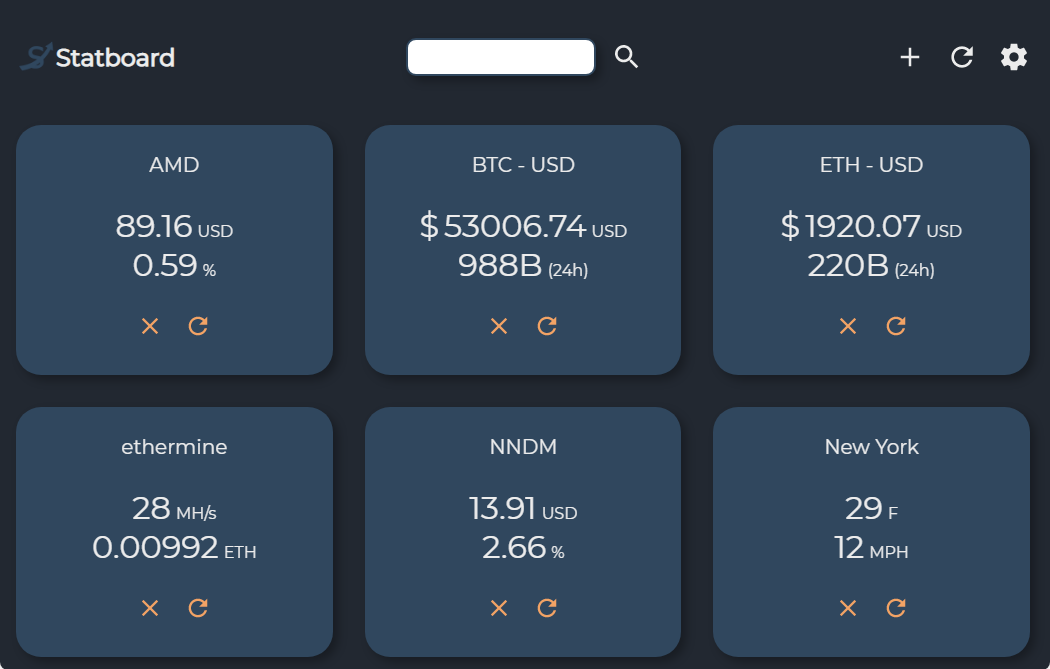
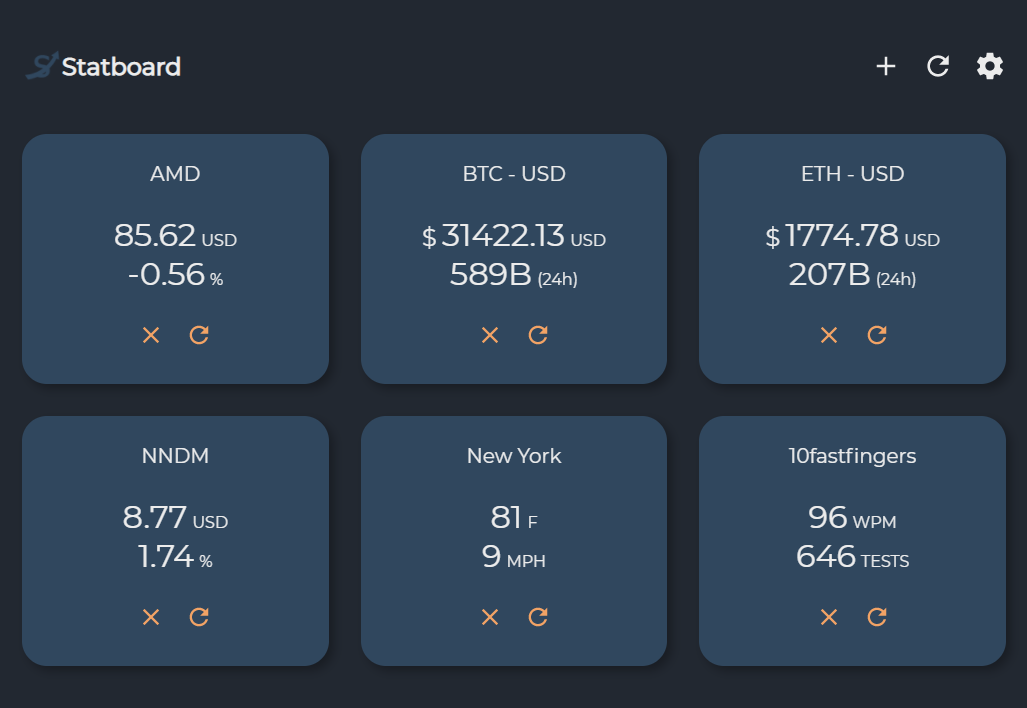
Add 'Life Calendar' project, update project images

diff --git a/data/content.js b/data/content.js
@@ -1,3 +1,5 @@
+import { Link } from "@chakra-ui/react";
+
 export const bio = `Hey! I'm Mito, a dependable web developer. I have been coding professionally for over a year, and amateurly for over four years. I am always eager to learn new technologies and techniques. My primary focus has been on front-end development, but I also have experience with back-end technologies. Through the development of various projects, I have found new ways to improve efficiency and sustainability.`;
 
 export const skills = [
@@ -19,6 +21,55 @@ export const skills = [
 export const projects = [
   {
     id: 1,
+    title: "Life Calendar",
+    code: "https://github.com/Mito9999/life-calendar",
+    url: "https://calendar-of-your-life.vercel.app/",
+    description:
+      "A visualization of the time in your life inspired by Kurzgesagt",
+    image: {
+      src: "/calendar.png",
+      width: "1180px",
+      height: "821px",
+    },
+    story: (
+      <>
+        While browsing YouTube, I came across an interesting video titled "
+        <Link
+          href="https://www.youtube.com/watch?v=JXeJANDKwDc"
+          target="_blank"
+          rel="noopener noreferrer"
+          color="blue.500"
+        >
+          What Are You Doing With Your Life?
+        </Link>
+        " which then advertised a poster to represent the weeks of your life.
+        This turned out to be a really good website idea, so I implemented it as
+        quickly as possible. Due to it's unique layout, I learned a lot about
+        positioning, negative margins, performance, and SVG icons. Full credit
+        for the original design concept goes to{" "}
+        <Link
+          href="https://www.youtube.com/channel/UCsXVk37bltHxD1rDPwtNM8Q"
+          target="_blank"
+          rel="noopener noreferrer"
+          color="blue.500"
+        >
+          Kurzgesagt
+        </Link>
+        , and you can find their incredible poster at{" "}
+        <Link
+          href="https://shop-us.kurzgesagt.org/collections/existential-dread/products/lifespan-calendar-poster"
+          target="_blank"
+          rel="noopener noreferrer"
+          color="blue.500"
+        >
+          https://shop-us.kurzgesagt.org/collections/existential-dread/products/lifespan-calendar-poster
+        </Link>
+      </>
+    ),
+    tech: ["React.js", "TypeScript", "Chakra UI", "Next.js"],
+  },
+  {
+    id: 2,
     title: "Statboard",
     code: "https://github.com/Mito9999/statboard",
     url: "https://statboard.vercel.app/",
@@ -26,30 +77,30 @@ export const projects = [
       "The one place to view all of your information from various sources!",
     image: {
       src: "/statboard.png",
-      width: "1050px",
-      height: "669px",
+      width: "1027px",
+      height: "708px",
     },
     story:
-      "I built this application to boost my productivity and gain insight into my goals. I wanted a way to track how well I was doing over time, and learn some useful technologies along the way.",
+      "I built this application to boost my productivity and gain insight into my goals. I wanted a way to track how well I was doing over time, and learn some useful technologies along the way. The main area that I improved in from this project was integrating APIs and fixing CORS errors.",
     tech: ["React.js", "JavaScript", "Styled Components", "CSS", "APIs"],
   },
   {
-    id: 2,
+    id: 3,
     title: "Dyftd",
     code: "https://github.com/Mito9999/dyftd",
     url: "https://dyftd.vercel.app/",
     description: "Did you feed the dog? Collaborative toggles.",
     image: {
       src: "/dyftd.png",
-      width: "1077px",
-      height: "769px",
+      width: "1201px",
+      height: "854px",
     },
     story:
       "My first experience with the MERN(T) Stack. User Experience was my main goal in mind, so I  made the application as smooth as possible with clean animations and consistency. After getting one of my MongoDB certificates, I reimplemented and restructured the backend for scalability. This project was originially built with Create React App (Express + Node), but was migrated to Next.js (Serverless).",
     tech: ["React.js", "TypeScript", "Chakra UI", "MongoDB", "Next.js"],
   },
   {
-    id: 3,
+    id: 4,
     title: "Rewards",
     code: "https://github.com/Mito9999/slots-app",
     description: "User-customizable tier based reward system",
@@ -63,7 +114,7 @@ export const projects = [
     tech: ["React.js", "Electron.js", "CSS"],
   },
   {
-    id: 4,
+    id: 5,
     title: "Feed",
     code: "https://github.com/Mito9999/feed",
     url: "https://my-feed.netlify.app/",
@@ -78,7 +129,7 @@ export const projects = [
     tech: ["React.js", "TypeScript", "Chakra UI", "APIs"],
   },
   {
-    id: 5,
+    id: 6,
     title: "Money Tracker",
     code: "https://github.com/Mito9999/moneytracker",
     description: "An easy way to visualize your spending and savings habits!",
@@ -87,7 +138,7 @@ export const projects = [
     tech: ["React.js", "TypeScript", "SCSS"],
   },
   {
-    id: 6,
+    id: 7,
     title: "Cars",
     code: "https://github.com/Mito9999/cars",
     description: "A simple API for finding great deals on cars.",
